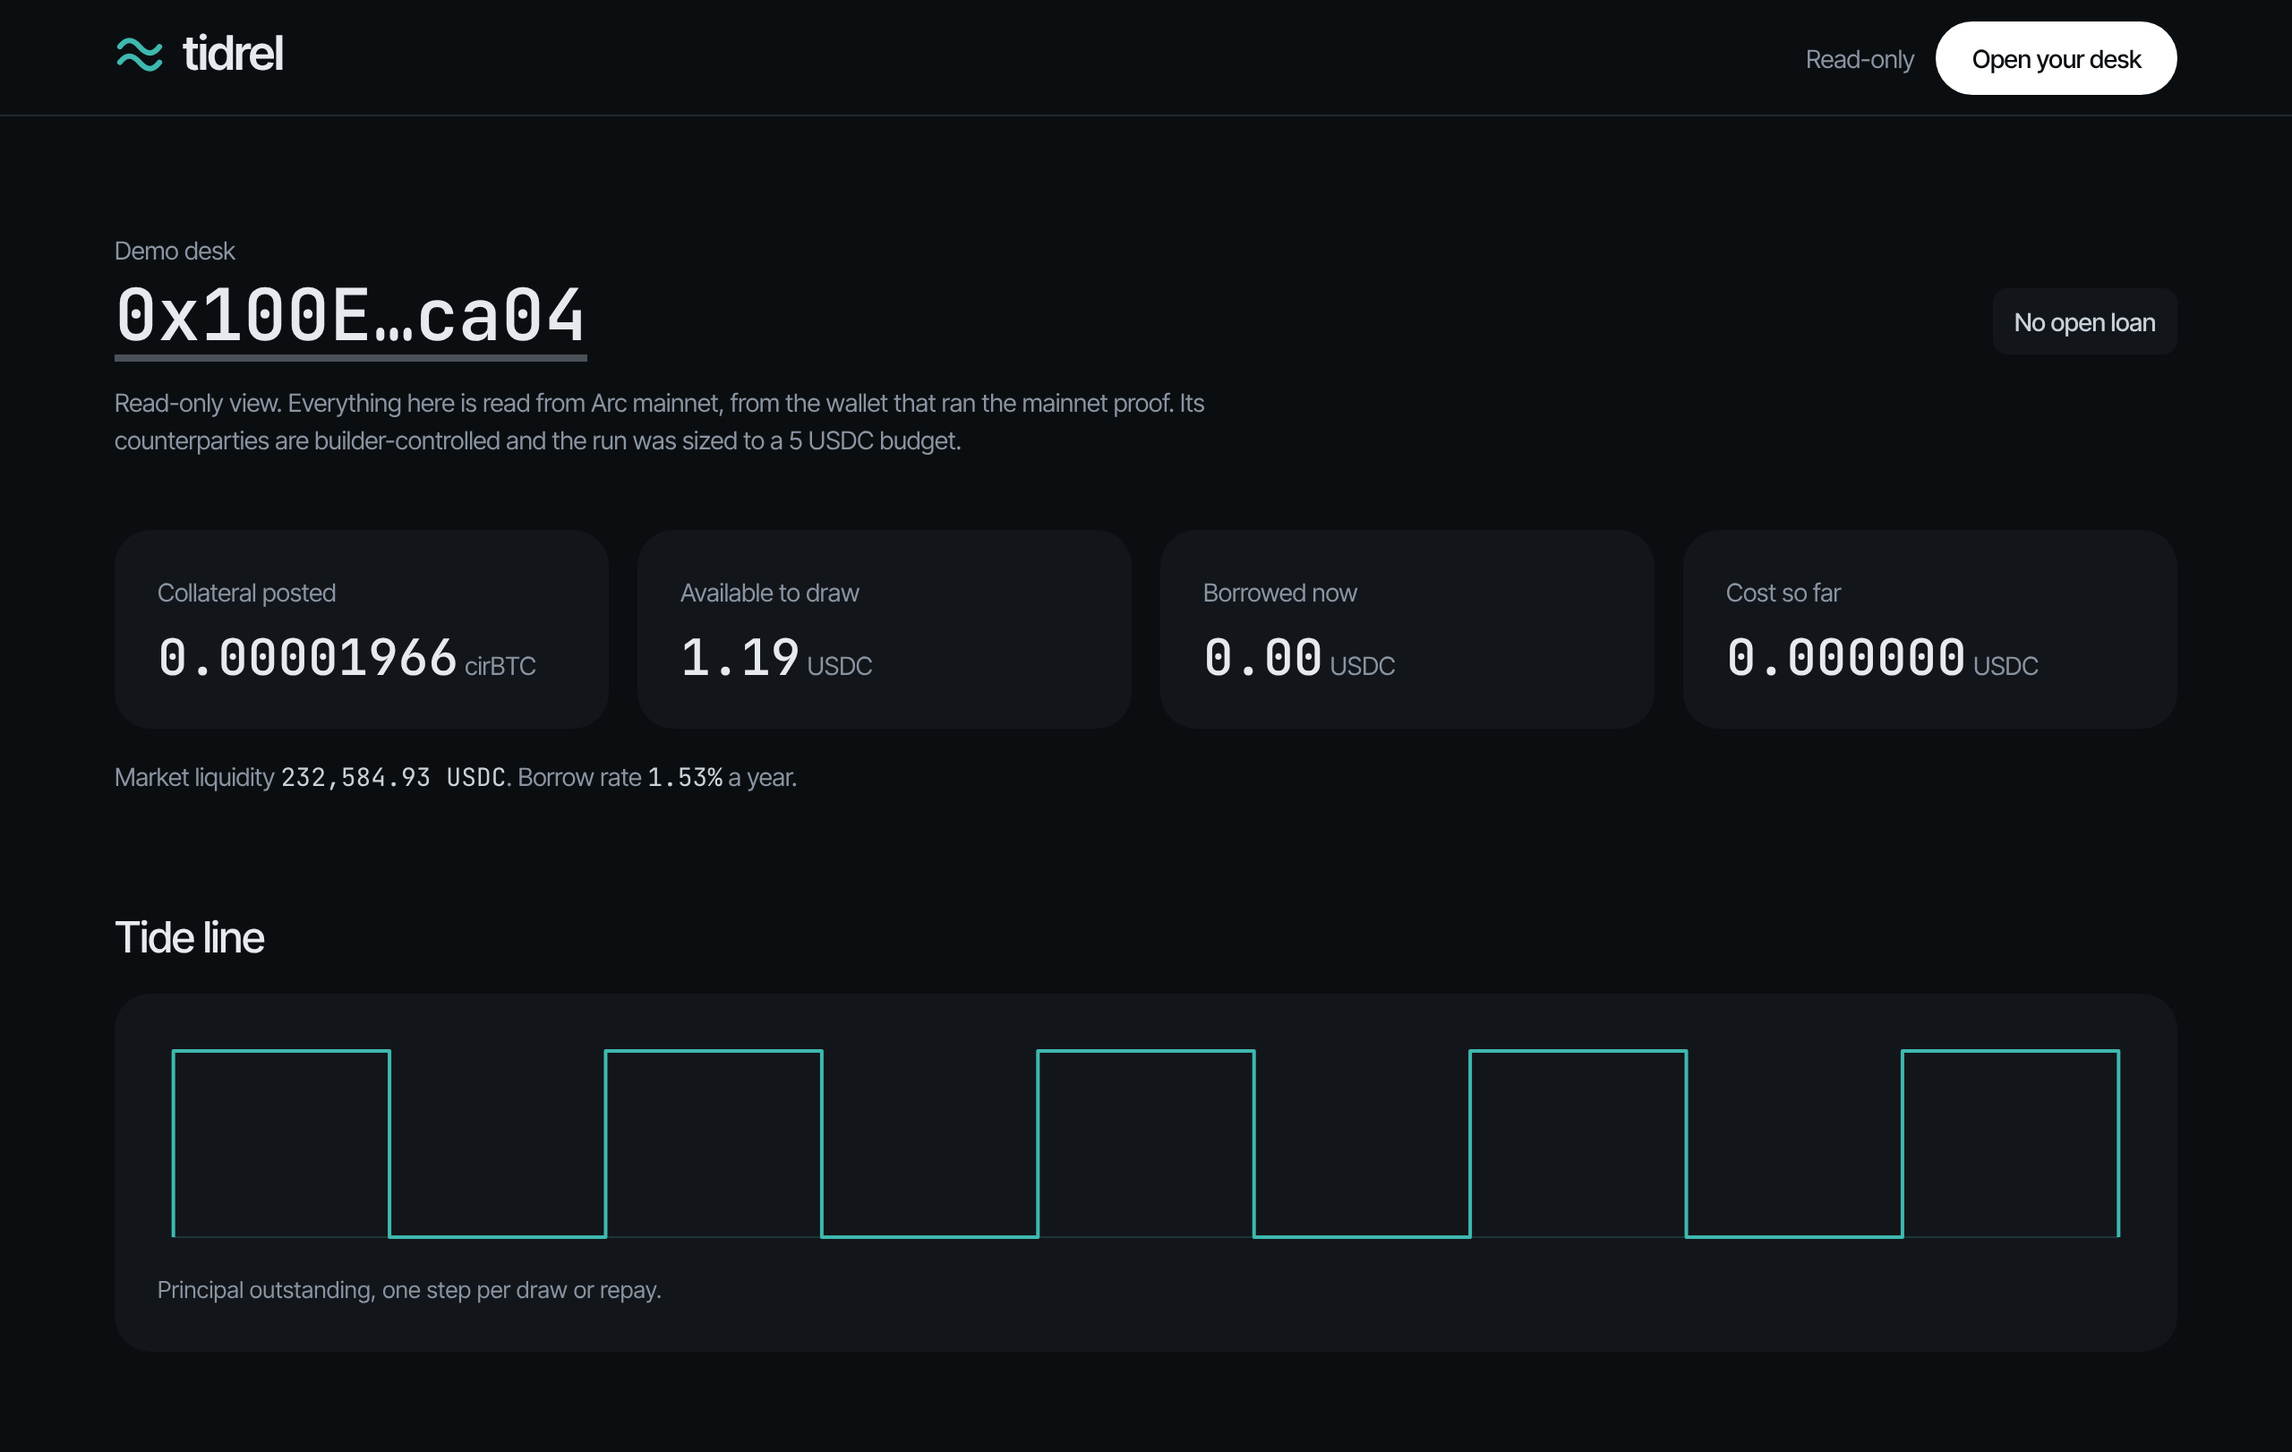
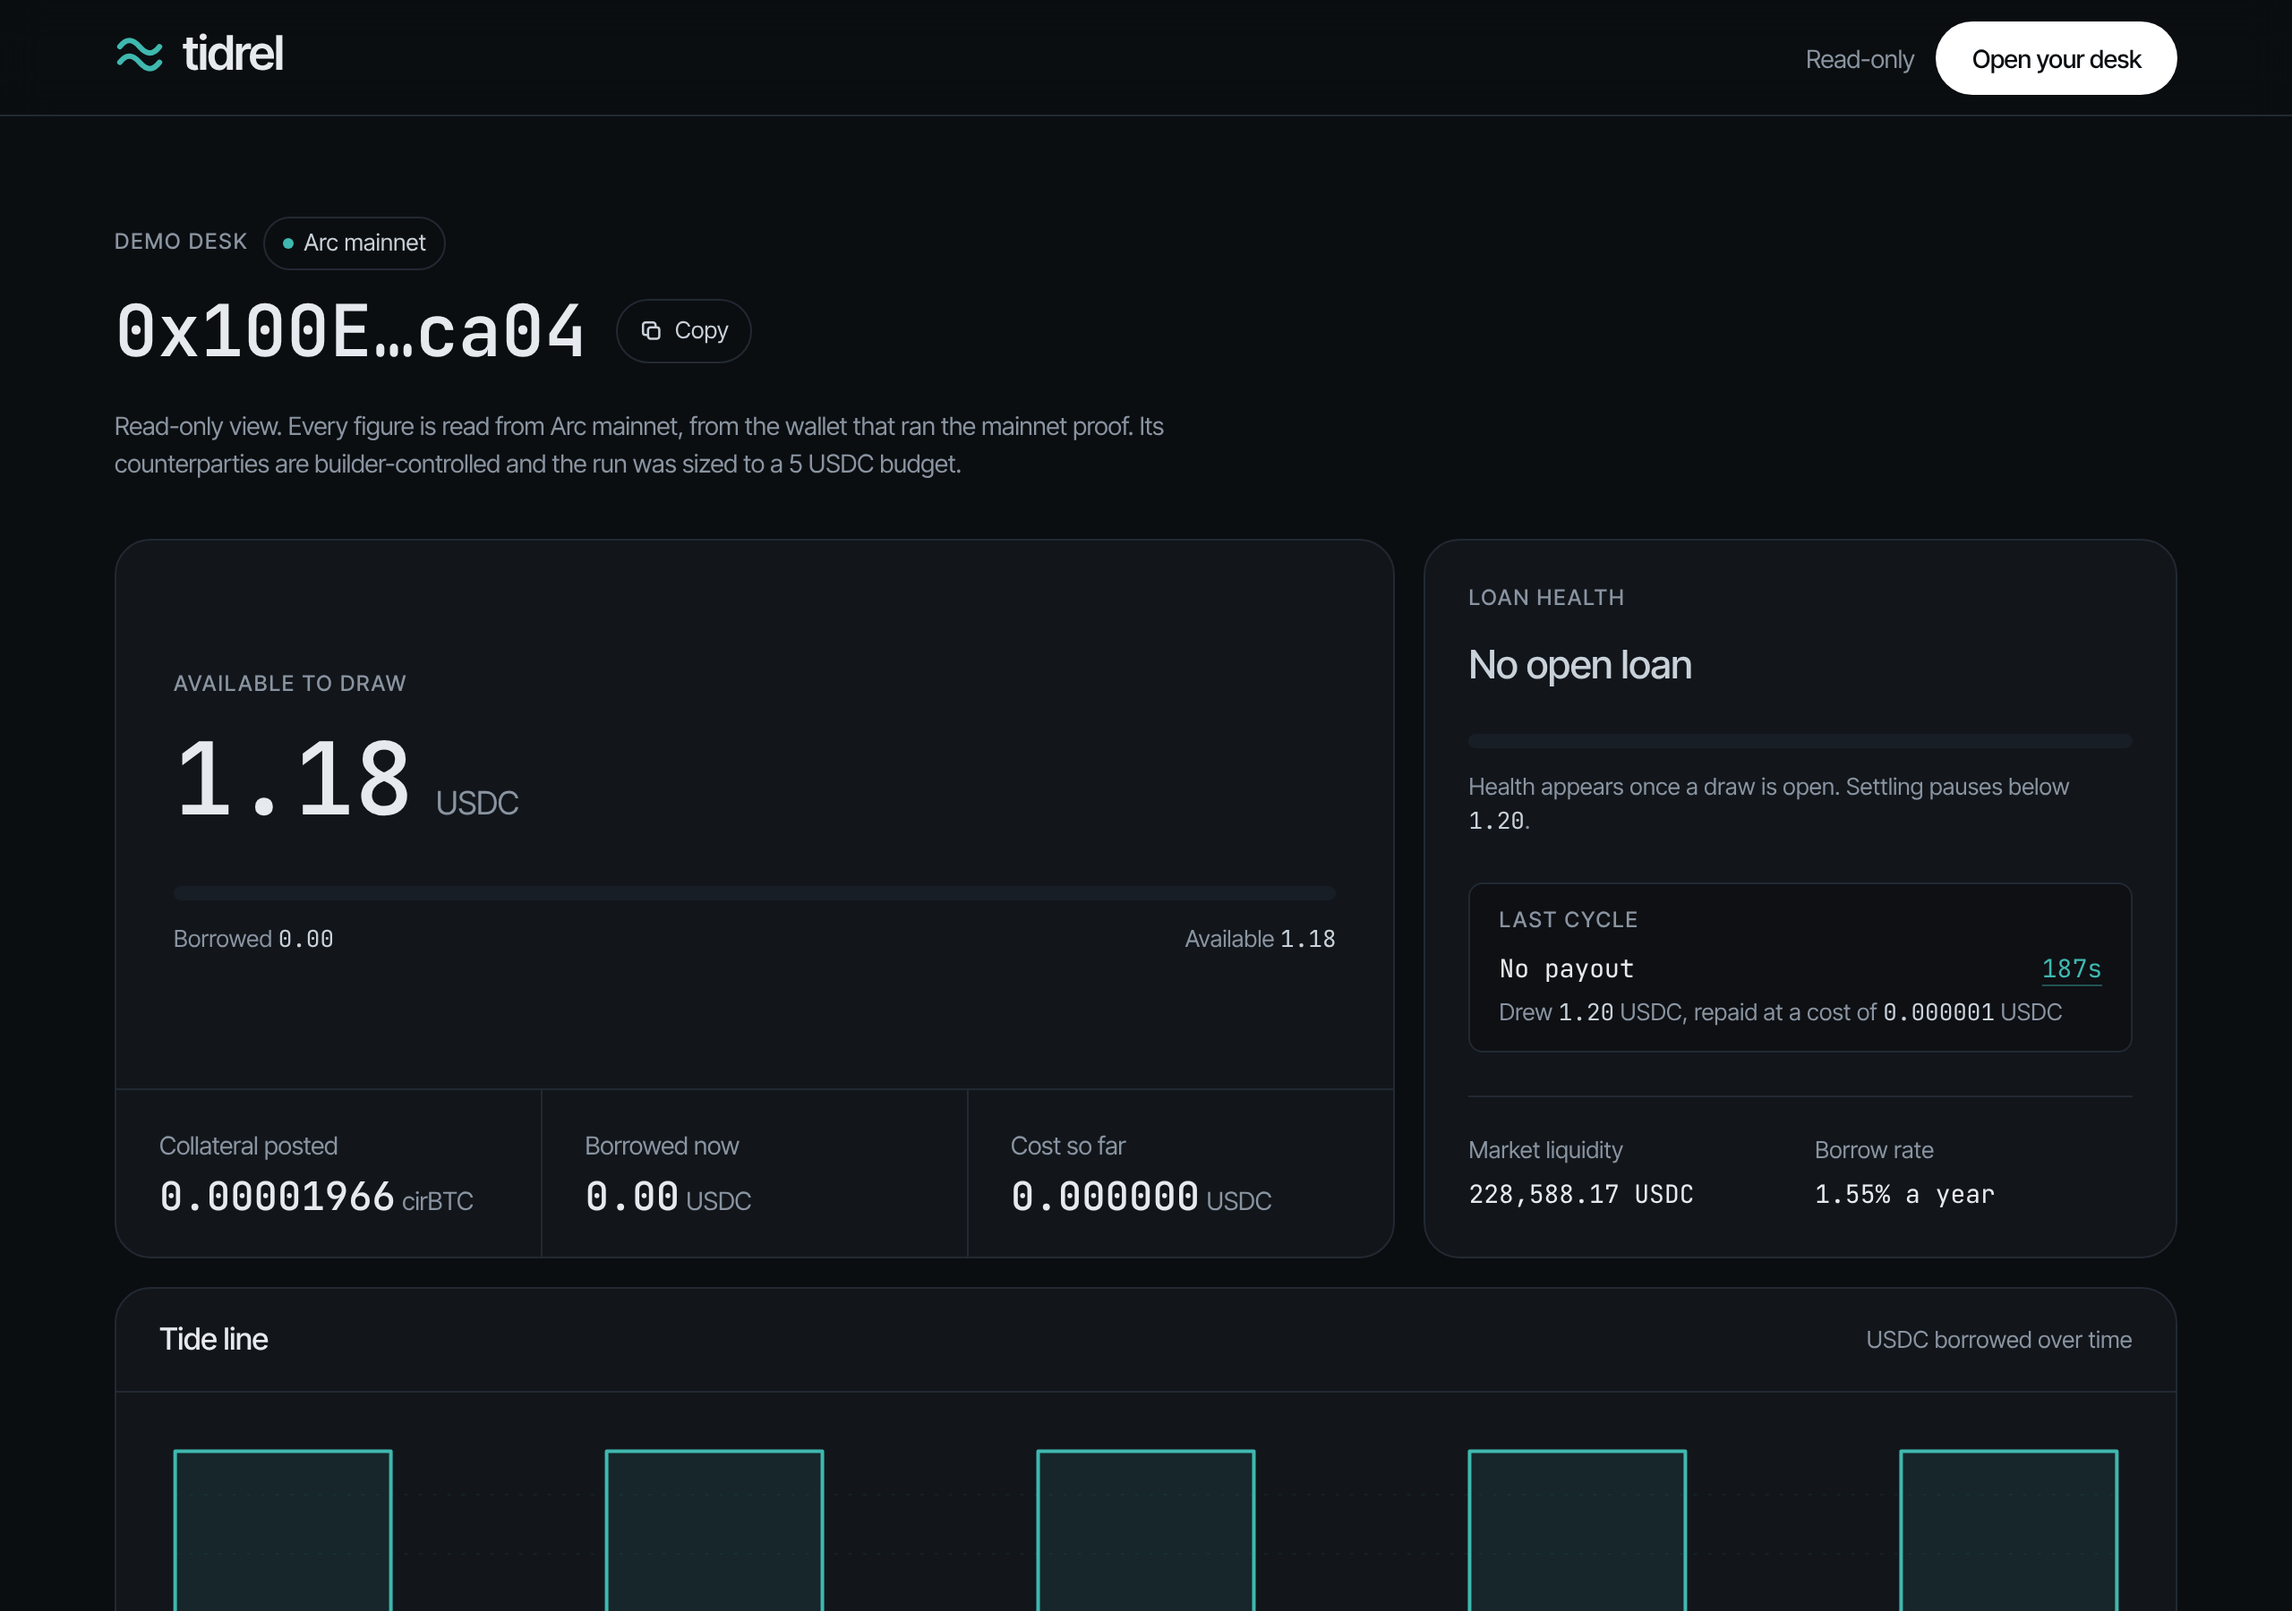
Redesign the landing page: problem section, bordered step cards, chip links, fresh hero capture

diff --git a/src/components/Problem.tsx b/src/components/Problem.tsx
@@ -1,0 +1,58 @@
+import { PillLink } from "./PillLink";
+
+const OPTIONS = [
+  {
+    title: "Prefund the USDC",
+    body: "Hold idle USDC at every venue, ready for a trade that may not come. The capital sits still.",
+  },
+  {
+    title: "Sell the bitcoin",
+    body: "Raise the USDC by selling what you meant to keep, and give up the position to pay for a few minutes of settlement.",
+  },
+  {
+    title: "Ask a broker for credit",
+    body: "Open a credit line with relationship terms and a credit process, for a need that lasts seconds.",
+  },
+];
+
+export function Problem() {
+  return (
+    <section className="bg-ink text-text">
+      <div className="mx-auto w-full max-w-[1200px] px-6 py-24 md:py-32">
+        <div className="max-w-2xl">
+          <p className="eyebrow">The problem</p>
+          <h2 className="mt-4 text-[40px] leading-[1.05] font-[550] tracking-[-0.03em] md:text-h2">
+            The USDC leg of a trade ties up capital for longer than the trade needs it.
+          </h2>
+        </div>
+
+        <div className="mt-12 grid gap-4 lg:grid-cols-[minmax(0,1fr)_minmax(0,1fr)]">
+          <ul className="card divide-y divide-line overflow-hidden">
+            {OPTIONS.map((o) => (
+              <li key={o.title} className="p-6 md:p-8">
+                <h3 className="text-sub font-medium text-text">{o.title}</h3>
+                <p className="mt-2 text-small text-ebb">{o.body}</p>
+              </li>
+            ))}
+          </ul>
+
+          <div className="card flex flex-col border-tide/50 p-6 md:p-8">
+            <p className="eyebrow text-tide">With Tidrel</p>
+            <h3 className="mt-4 text-[28px] leading-[1.15] font-[550] tracking-[-0.02em] md:text-[32px]">
+              Borrow the exact USDC for exactly as long as the trade takes to settle.
+            </h3>
+            <p className="mt-4 text-small text-ebb">
+              Your bitcoin stays posted as collateral. Tidrel draws only the shortfall, pays every
+              counterparty in one transaction, and the loan closes the moment USDC comes back.
+            </p>
+            <div className="mt-auto pt-8">
+              <PillLink href="/desk" variant="primary">
+                Open the desk
+              </PillLink>
+            </div>
+          </div>
+        </div>
+      </div>
+    </section>
+  );
+}

diff --git a/src/components/Hero.tsx b/src/components/Hero.tsx
@@ -39,20 +39,23 @@ export function Hero() {
           </PillLink>
         </div>
 
-        <p className="mt-12 flex flex-wrap items-center justify-center gap-x-5 gap-y-2 text-small text-body">
-          <span className="font-medium text-ink">Live on Arc mainnet</span>
+        <div className="mt-12 flex flex-wrap items-center justify-center gap-2 text-small">
+          <span className="inline-flex items-center gap-2 pr-2 font-medium text-ink">
+            <span className="h-2 w-2 rounded-pill bg-tide-deep" aria-hidden="true" />
+            Live on Arc mainnet
+          </span>
           {PROOF_LINKS.map((l) => (
             <a
               key={l.label}
               href={l.href}
               target="_blank"
               rel="noopener noreferrer"
-              className="inline-block rounded-badge py-1 text-tide-deep underline decoration-tide-deep/40 underline-offset-4 hover:decoration-tide-deep"
+              className="inline-block rounded-pill border border-ink/15 bg-paper/60 px-3.5 py-1.5 text-ink transition-colors hover:border-tide-deep hover:text-tide-deep"
             >
               {l.label}
             </a>
           ))}
-        </p>
+        </div>
       </div>
 
       {/* A real capture of the demo desk, read from Arc mainnet by the built app. It is
@@ -67,15 +70,16 @@ export function Hero() {
               tidrel.vercel.app/view/{shortHash(DEMO_DESK_ADDRESS)}
             </span>
           </div>
-          <div className="max-h-[300px] overflow-hidden sm:max-h-[460px] md:max-h-[560px]">
+          <div className="max-h-[380px] overflow-hidden sm:max-h-[460px] md:max-h-[560px]">
             <Image
               src="/captures/desk.png"
               alt="The Tidrel desk for the demo wallet: collateral posted, available to draw, borrowed now, cost so far, and the tide line of its mainnet draws and repays."
               width={2560}
               height={1622}
               priority
+              unoptimized
               sizes="(min-width: 1148px) 1100px, 100vw"
-              className="block h-auto w-full"
+              className="block h-auto w-[230%] max-w-none sm:w-full sm:max-w-full"
             />
           </div>
         </div>

diff --git a/src/components/HowItWorks.tsx b/src/components/HowItWorks.tsx
@@ -44,7 +44,7 @@ export async function HowItWorks() {
   };
 
   return (
-    <section id="how-it-works" className="scroll-mt-16 bg-ink text-text focus:outline-none">
+    <section id="how-it-works" className="scroll-mt-16 border-t border-line bg-ink text-text focus:outline-none">
       <div className="mx-auto w-full max-w-[1200px] px-6 py-24 md:py-32">
         <div className="flex flex-col gap-8 md:flex-row md:items-end md:justify-between">
           <div className="max-w-2xl">
@@ -60,15 +60,20 @@ export async function HowItWorks() {
           </PillLink>
         </div>
 
-        <ol className="mt-12 grid gap-6 md:grid-cols-3">
-          {STEPS.map((step) => {
+        <ol className="mt-12 grid gap-4 md:grid-cols-3">
+          {STEPS.map((step, i) => {
             const hash = hashes[step.link];
             return (
               <li
                 key={step.label}
-                className="flex flex-col rounded-card bg-panel p-6 md:p-8"
+                className="card flex flex-col p-6 md:p-8"
               >
-                <p className="text-[14px] font-medium text-tide">{step.label}</p>
+                <p className="flex items-center gap-3 text-[14px] font-medium text-tide">
+                  <span className="num flex h-7 w-7 items-center justify-center rounded-pill border border-tide/40 text-caption">
+                    {i + 1}
+                  </span>
+                  {step.label}
+                </p>
                 <h3 className="mt-3 text-sub font-medium text-text">{step.title}</h3>
                 <p className="mt-3 text-small text-ebb">{step.body}</p>
                 <div className="mt-auto pt-8">

diff --git a/src/components/ProofCards.tsx b/src/components/ProofCards.tsx
@@ -36,12 +36,12 @@ export async function ProofCards() {
           </PillLink>
         </div>
 
-        <ul className="mt-12 grid gap-6 sm:grid-cols-2 lg:grid-cols-4">
+        <ul className="mt-12 grid gap-4 sm:grid-cols-2 lg:grid-cols-4">
           {cards.map((c) => (
             <li key={c.label} className="flex">
               <Link
                 href="/proof"
-                className="flex w-full flex-col justify-between rounded-card bg-panel p-6 transition-colors duration-150 hover:bg-line md:p-8"
+                className="card flex w-full flex-col justify-between p-6 transition-colors duration-150 hover:border-tide/50 md:p-8"
               >
                 <span className="text-[44px] leading-none font-[550] tracking-[-0.03em] text-tide md:text-[52px]">
                   {c.value}

diff --git a/src/app/page.tsx b/src/app/page.tsx
@@ -4,6 +4,7 @@ import { Footer } from "@/components/Footer";
 import { Hero } from "@/components/Hero";
 import { HowItWorks } from "@/components/HowItWorks";
 import { NavBar } from "@/components/NavBar";
+import { Problem } from "@/components/Problem";
 import { ProofCards } from "@/components/ProofCards";
 import { ScrollOnLoad } from "@/components/ScrollOnLoad";
 import { SkipLink } from "@/components/SkipLink";
@@ -19,6 +20,7 @@ export default function Home() {
       <ScrollOnLoad />
       <main id="main" className="flex-1">
         <Hero />
+        <Problem />
         <HowItWorks />
         <ProofCards />
         <BuiltOn />

diff --git a/src/components/BuiltOn.tsx b/src/components/BuiltOn.tsx
@@ -33,6 +33,7 @@ export function BuiltOn() {
                   width={p.w}
                   height={p.h}
                   unoptimized
+                  loading="eager"
                   style={{ height: p.height, width: "auto" }}
                 />
               </a>
